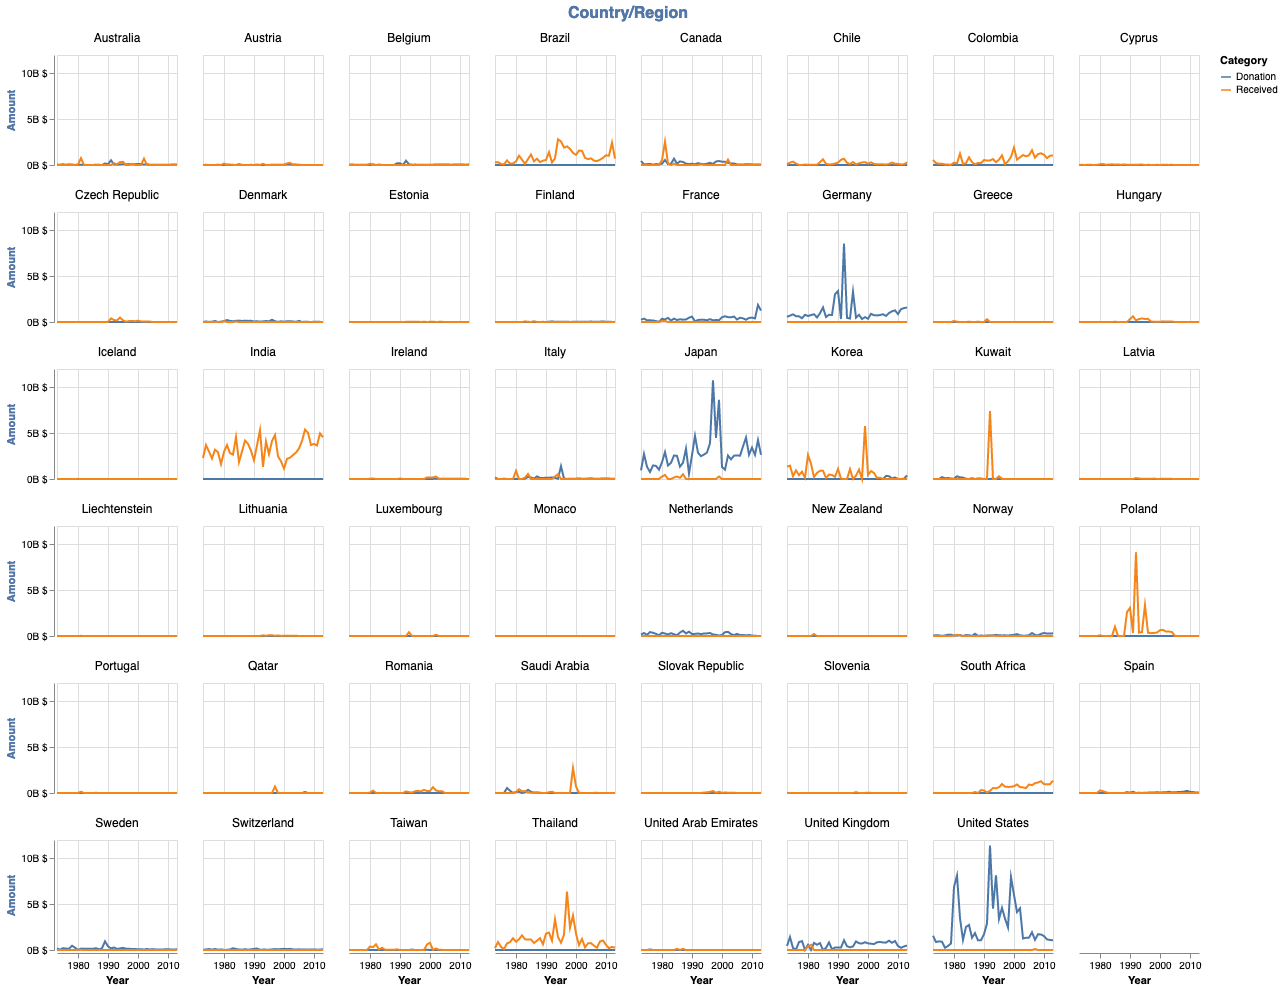
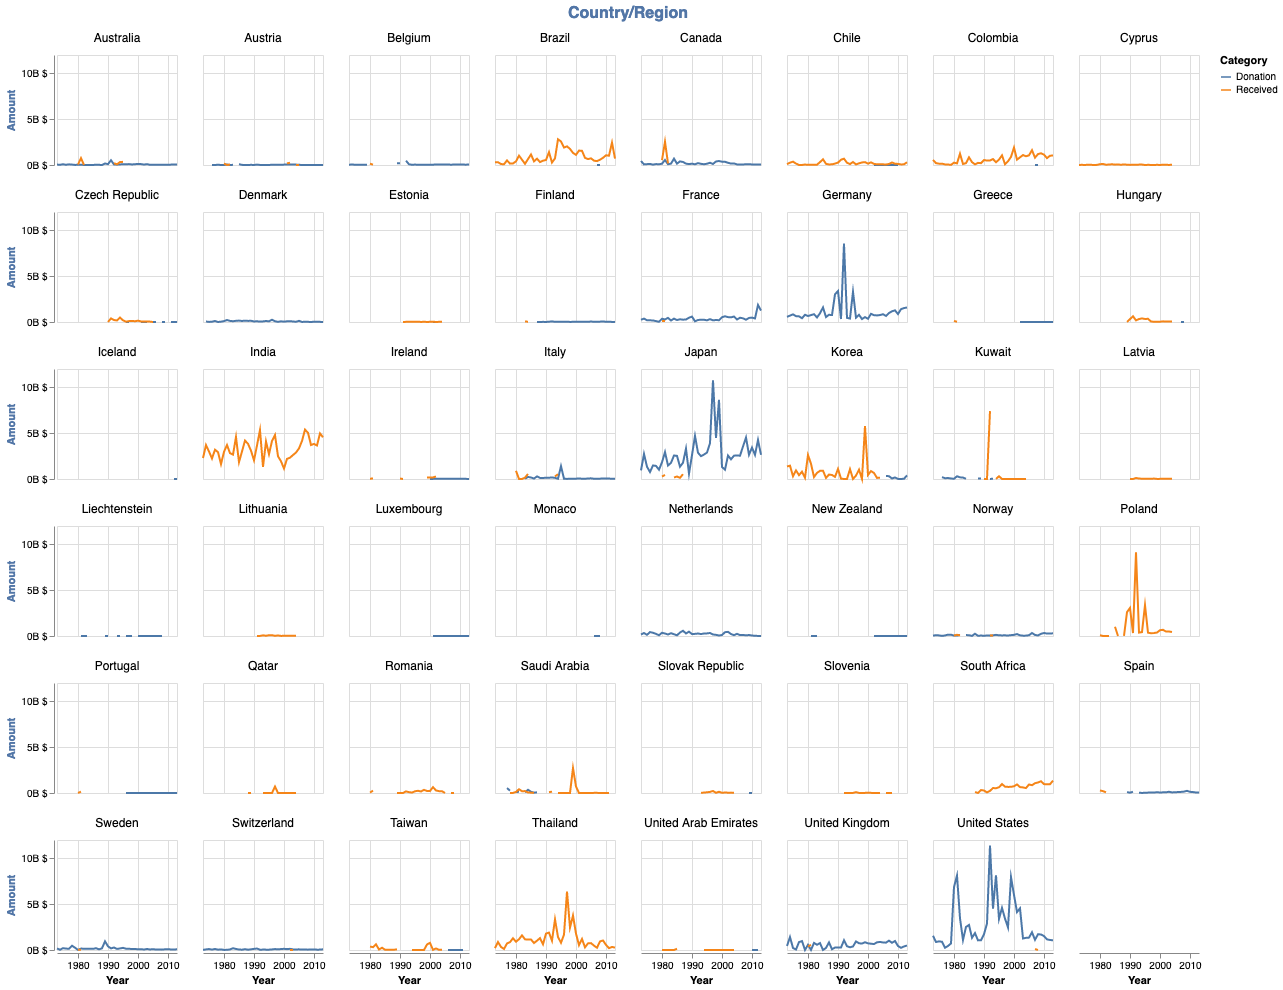
deploy: fca559be1cbcc8a443f759e8d861f0cc33e9a697

Changed region(s): [[0.7482, 0.4545, 0.7794, 0.4848]]

diff --git a/en/2022/10/05/wrangling/index.html b/en/2022/10/05/wrangling/index.html
@@ -637,6 +637,163 @@ all_df<span style=color:#666>.</span>head()
     labelFontSize<span style=color:#666>=</span><span style=color:#666>14</span>
 )
 </code></pre></div><figure class=fullwidth itemprop=associatedMedia itemscope itemtype=http://schema.org/ImageObject>
+<a href=/en/blog/2022-10-05-wrangling_files/aid-small-multiple-diffonly.png itemprop=contentUrl>
+<img itemprop=thumbnail src=/en/blog/2022-10-05-wrangling_files/aid-small-multiple-diffonly.png>
+</a>
+</figure>
+<p>The problem with this plot is that with it, we are not able to see the actual donation and receiving. We can achieve this in the following way.</p>
+<div class=highlight><pre tabindex=0 style=-moz-tab-size:4;-o-tab-size:4;tab-size:4><code class=language-python data-lang=python>all_df_melted <span style=color:#666>=</span> pd<span style=color:#666>.</span>melt(all_df, 
+        id_vars<span style=color:#666>=</span>[<span style=color:#ba2121>&#39;year&#39;</span>, <span style=color:#ba2121>&#39;country&#39;</span>], 
+        value_vars<span style=color:#666>=</span>[<span style=color:#ba2121>&#39;donation&#39;</span>, <span style=color:#ba2121>&#39;received&#39;</span>],
+        var_name <span style=color:#666>=</span> <span style=color:#ba2121>&#39;category&#39;</span>,
+        value_name <span style=color:#666>=</span> <span style=color:#ba2121>&#39;amount&#39;</span>
+       )
+all_df_melted<span style=color:#666>.</span>replace({
+    <span style=color:#ba2121>&#39;donation&#39;</span>: <span style=color:#ba2121>&#39;Donation&#39;</span>,
+    <span style=color:#ba2121>&#39;received&#39;</span>: <span style=color:#ba2121>&#39;Received&#39;</span>
+}, inplace <span style=color:#666>=</span> <span style=color:green;font-weight:700>True</span>)
+all_df_melted<span style=color:#666>.</span>rename(
+    columns <span style=color:#666>=</span> {
+        <span style=color:#ba2121>&#39;category&#39;</span>: <span style=color:#ba2121>&#39;Category&#39;</span>
+    }, inplace <span style=color:#666>=</span> <span style=color:green;font-weight:700>True</span>)
+all_df_melted<span style=color:#666>.</span>head()
+</code></pre></div><div>
+<style scoped>.dataframe tbody tr th:only-of-type{vertical-align:middle}<pre><code>.dataframe tbody tr th{vertical-align:top}.dataframe thead th{text-align:right}</code></pre><p></style></p>
+<table border=1 class=dataframe>
+<thead>
+<tr style=text-align:right>
+<th></th>
+<th>year</th>
+<th>country</th>
+<th>Category</th>
+<th>amount</th>
+</tr>
+</thead>
+<tbody>
+<tr>
+<th>0</th>
+<td>1973-01-01</td>
+<td>Australia</td>
+<td>Donation</td>
+<td>0.046286</td>
+</tr>
+<tr>
+<th>1</th>
+<td>1973-01-01</td>
+<td>Austria</td>
+<td>Donation</td>
+<td>0.000000</td>
+</tr>
+<tr>
+<th>2</th>
+<td>1973-01-01</td>
+<td>Belgium</td>
+<td>Donation</td>
+<td>0.039251</td>
+</tr>
+<tr>
+<th>3</th>
+<td>1973-01-01</td>
+<td>Brazil</td>
+<td>Donation</td>
+<td>0.000000</td>
+</tr>
+<tr>
+<th>4</th>
+<td>1973-01-01</td>
+<td>Canada</td>
+<td>Donation</td>
+<td>0.437928</td>
+</tr>
+</tbody>
+</table>
+</div>
+<p>This is important: because we are going to plot both donaiton and received amount each year for each country, it is important to replace 0 with NaN. Because the figures will be very small, if we do not change 0 to NaN, then we will consider 0 as small amount of donation or received amount, which is misleading.</p>
+<div class=highlight><pre tabindex=0 style=-moz-tab-size:4;-o-tab-size:4;tab-size:4><code class=language-python data-lang=python>all_df_melted[<span style=color:#ba2121>&#39;amount&#39;</span>] <span style=color:#666>=</span> all_df_melted[<span style=color:#ba2121>&#39;amount&#39;</span>]<span style=color:#666>.</span>replace(<span style=color:#666>0</span>, np<span style=color:#666>.</span>nan)
+all_df_melted<span style=color:#666>.</span>head()
+</code></pre></div><div>
+<style scoped>.dataframe tbody tr th:only-of-type{vertical-align:middle}<pre><code>.dataframe tbody tr th{vertical-align:top}.dataframe thead th{text-align:right}</code></pre><p></style></p>
+<table border=1 class=dataframe>
+<thead>
+<tr style=text-align:right>
+<th></th>
+<th>year</th>
+<th>country</th>
+<th>Category</th>
+<th>amount</th>
+</tr>
+</thead>
+<tbody>
+<tr>
+<th>0</th>
+<td>1973-01-01</td>
+<td>Australia</td>
+<td>Donation</td>
+<td>0.046286</td>
+</tr>
+<tr>
+<th>1</th>
+<td>1973-01-01</td>
+<td>Austria</td>
+<td>Donation</td>
+<td>NaN</td>
+</tr>
+<tr>
+<th>2</th>
+<td>1973-01-01</td>
+<td>Belgium</td>
+<td>Donation</td>
+<td>0.039251</td>
+</tr>
+<tr>
+<th>3</th>
+<td>1973-01-01</td>
+<td>Brazil</td>
+<td>Donation</td>
+<td>NaN</td>
+</tr>
+<tr>
+<th>4</th>
+<td>1973-01-01</td>
+<td>Canada</td>
+<td>Donation</td>
+<td>0.437928</td>
+</tr>
+</tbody>
+</table>
+</div>
+<div class=highlight><pre tabindex=0 style=-moz-tab-size:4;-o-tab-size:4;tab-size:4><code class=language-python data-lang=python>alt<span style=color:#666>.</span>Chart(all_df_melted)<span style=color:#666>.</span>mark_line()<span style=color:#666>.</span>encode(
+    x <span style=color:#666>=</span> alt<span style=color:#666>.</span>X(
+        <span style=color:#ba2121>&#39;year&#39;</span>,
+        title <span style=color:#666>=</span> <span style=color:#ba2121>&#39;Year&#39;</span>
+    ),
+    y <span style=color:#666>=</span> alt<span style=color:#666>.</span>Y(
+        <span style=color:#ba2121>&#39;amount:Q&#39;</span>,
+        title <span style=color:#666>=</span> <span style=color:#ba2121>&#39;Amount&#39;</span>,
+        axis<span style=color:#666>=</span>alt<span style=color:#666>.</span>Axis(
+            titleColor<span style=color:#666>=</span><span style=color:#ba2121>&#39;#5276A7&#39;</span>,
+            labelExpr <span style=color:#666>=</span> <span style=color:#ba2121>&#39;datum.value + &#34;B $`&#34;&#39;</span>
+        ),
+    ),
+    color <span style=color:#666>=</span> alt<span style=color:#666>.</span>Color(
+        <span style=color:#ba2121>&#39;Category:N&#39;</span>,
+    ),
+    facet <span style=color:#666>=</span> alt<span style=color:#666>.</span>Facet(
+        <span style=color:#ba2121>&#34;country:N&#34;</span>,
+        columns <span style=color:#666>=</span> <span style=color:#666>8</span>,
+        title <span style=color:#666>=</span> <span style=color:#ba2121>&#39;Country/Region&#39;</span>,
+        header <span style=color:#666>=</span> alt<span style=color:#666>.</span>Header(labelFontSize <span style=color:#666>=</span> <span style=color:#666>12</span>)
+    )
+)<span style=color:#666>.</span>properties(
+    width <span style=color:#666>=</span> <span style=color:#666>120</span>,
+    height <span style=color:#666>=</span> <span style=color:#666>110</span>,
+)<span style=color:#666>.</span>configure_header(
+    titleColor<span style=color:#666>=</span><span style=color:#ba2121>&#39;#5276A7&#39;</span>,
+    titleFontSize<span style=color:#666>=</span><span style=color:#666>16</span>,
+<span style=color:#408080;font-style:italic>#     labelColor=&#39;red&#39;,</span>
+    labelFontSize<span style=color:#666>=</span><span style=color:#666>14</span>
+)
+</code></pre></div><figure class=fullwidth itemprop=associatedMedia itemscope itemtype=http://schema.org/ImageObject>
 <a href=/en/blog/2022-10-05-wrangling_files/aid-small-multiple.png itemprop=contentUrl>
 <img itemprop=thumbnail src=/en/blog/2022-10-05-wrangling_files/aid-small-multiple.png>
 </a>
